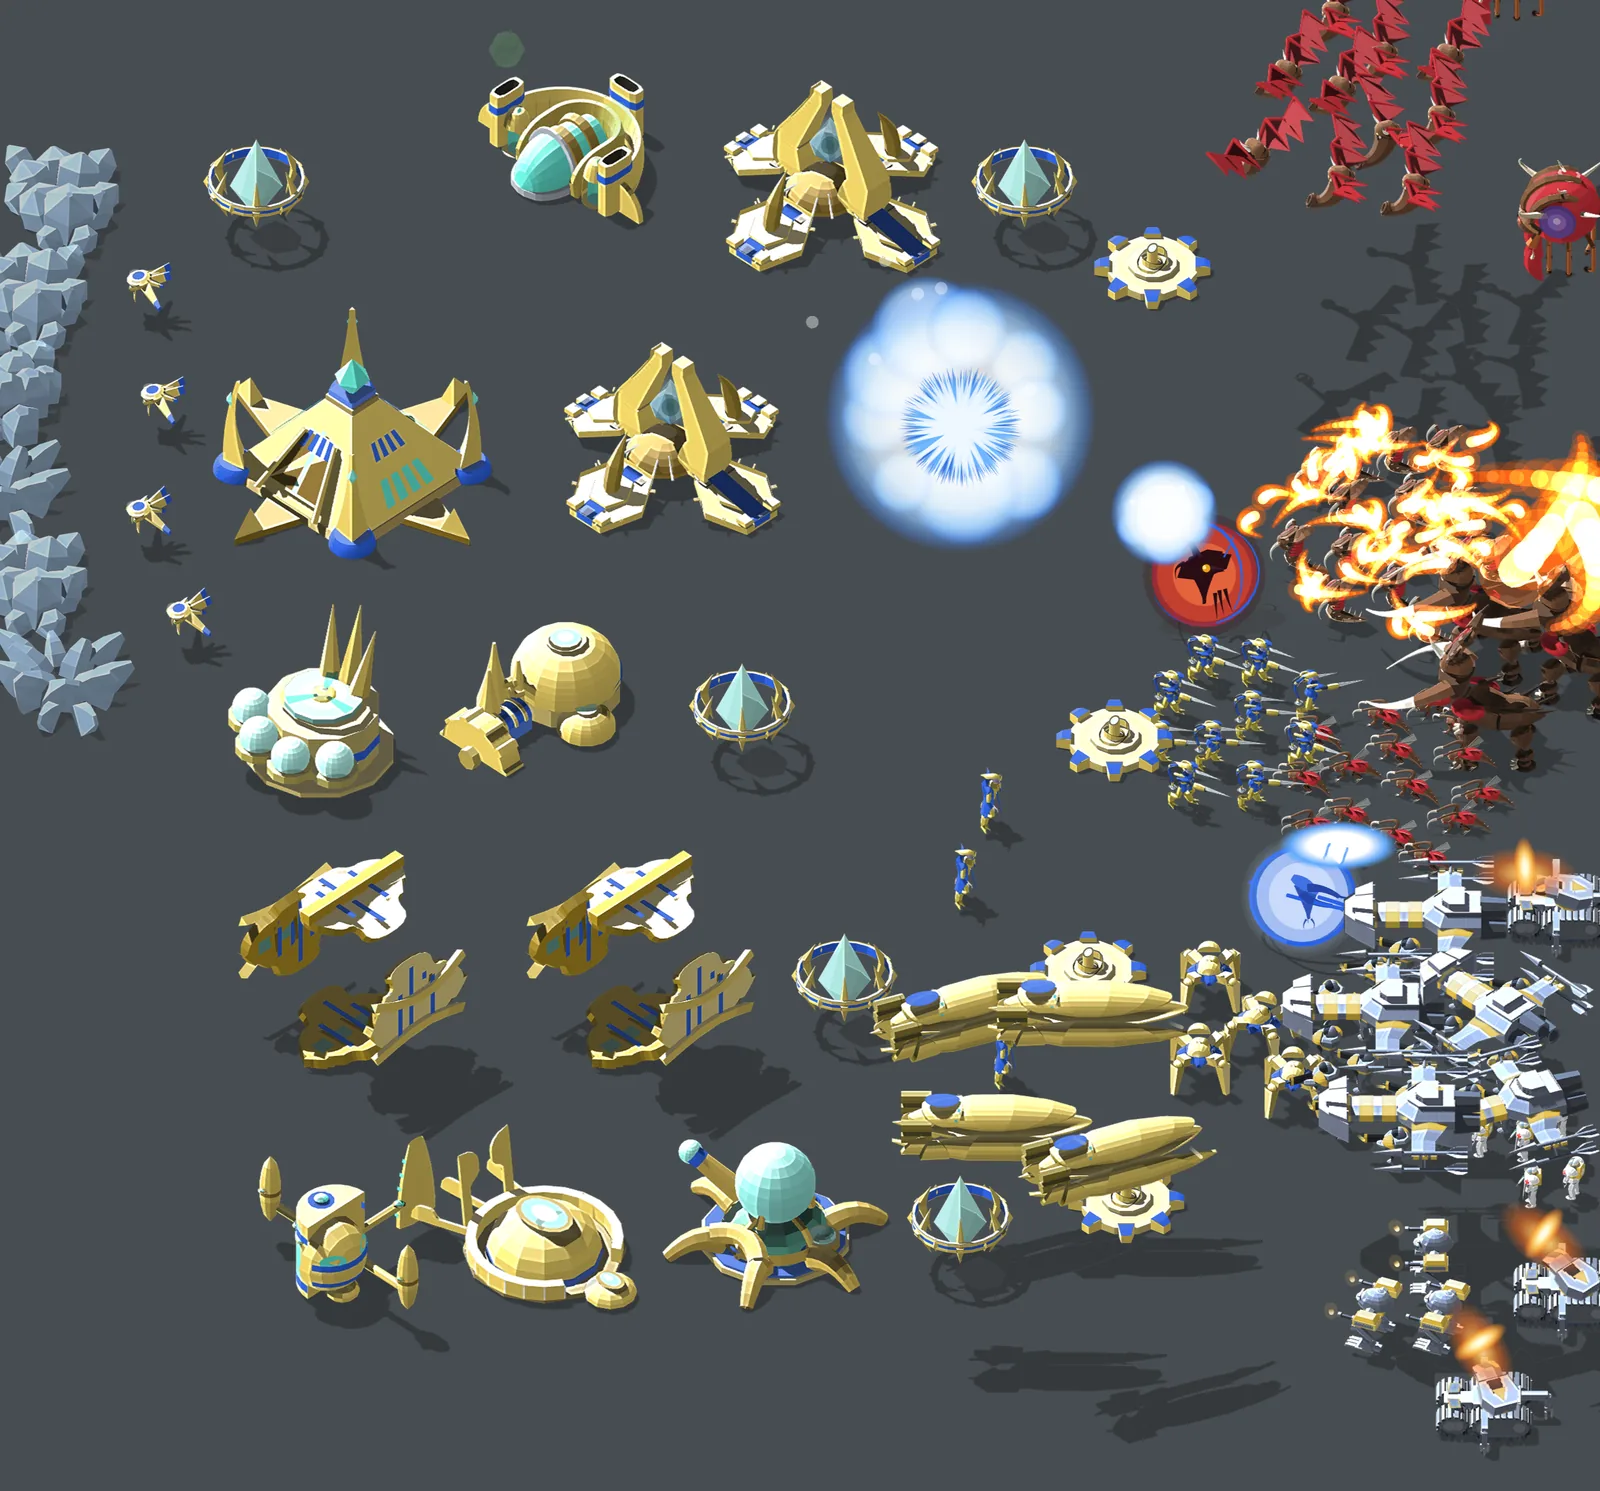
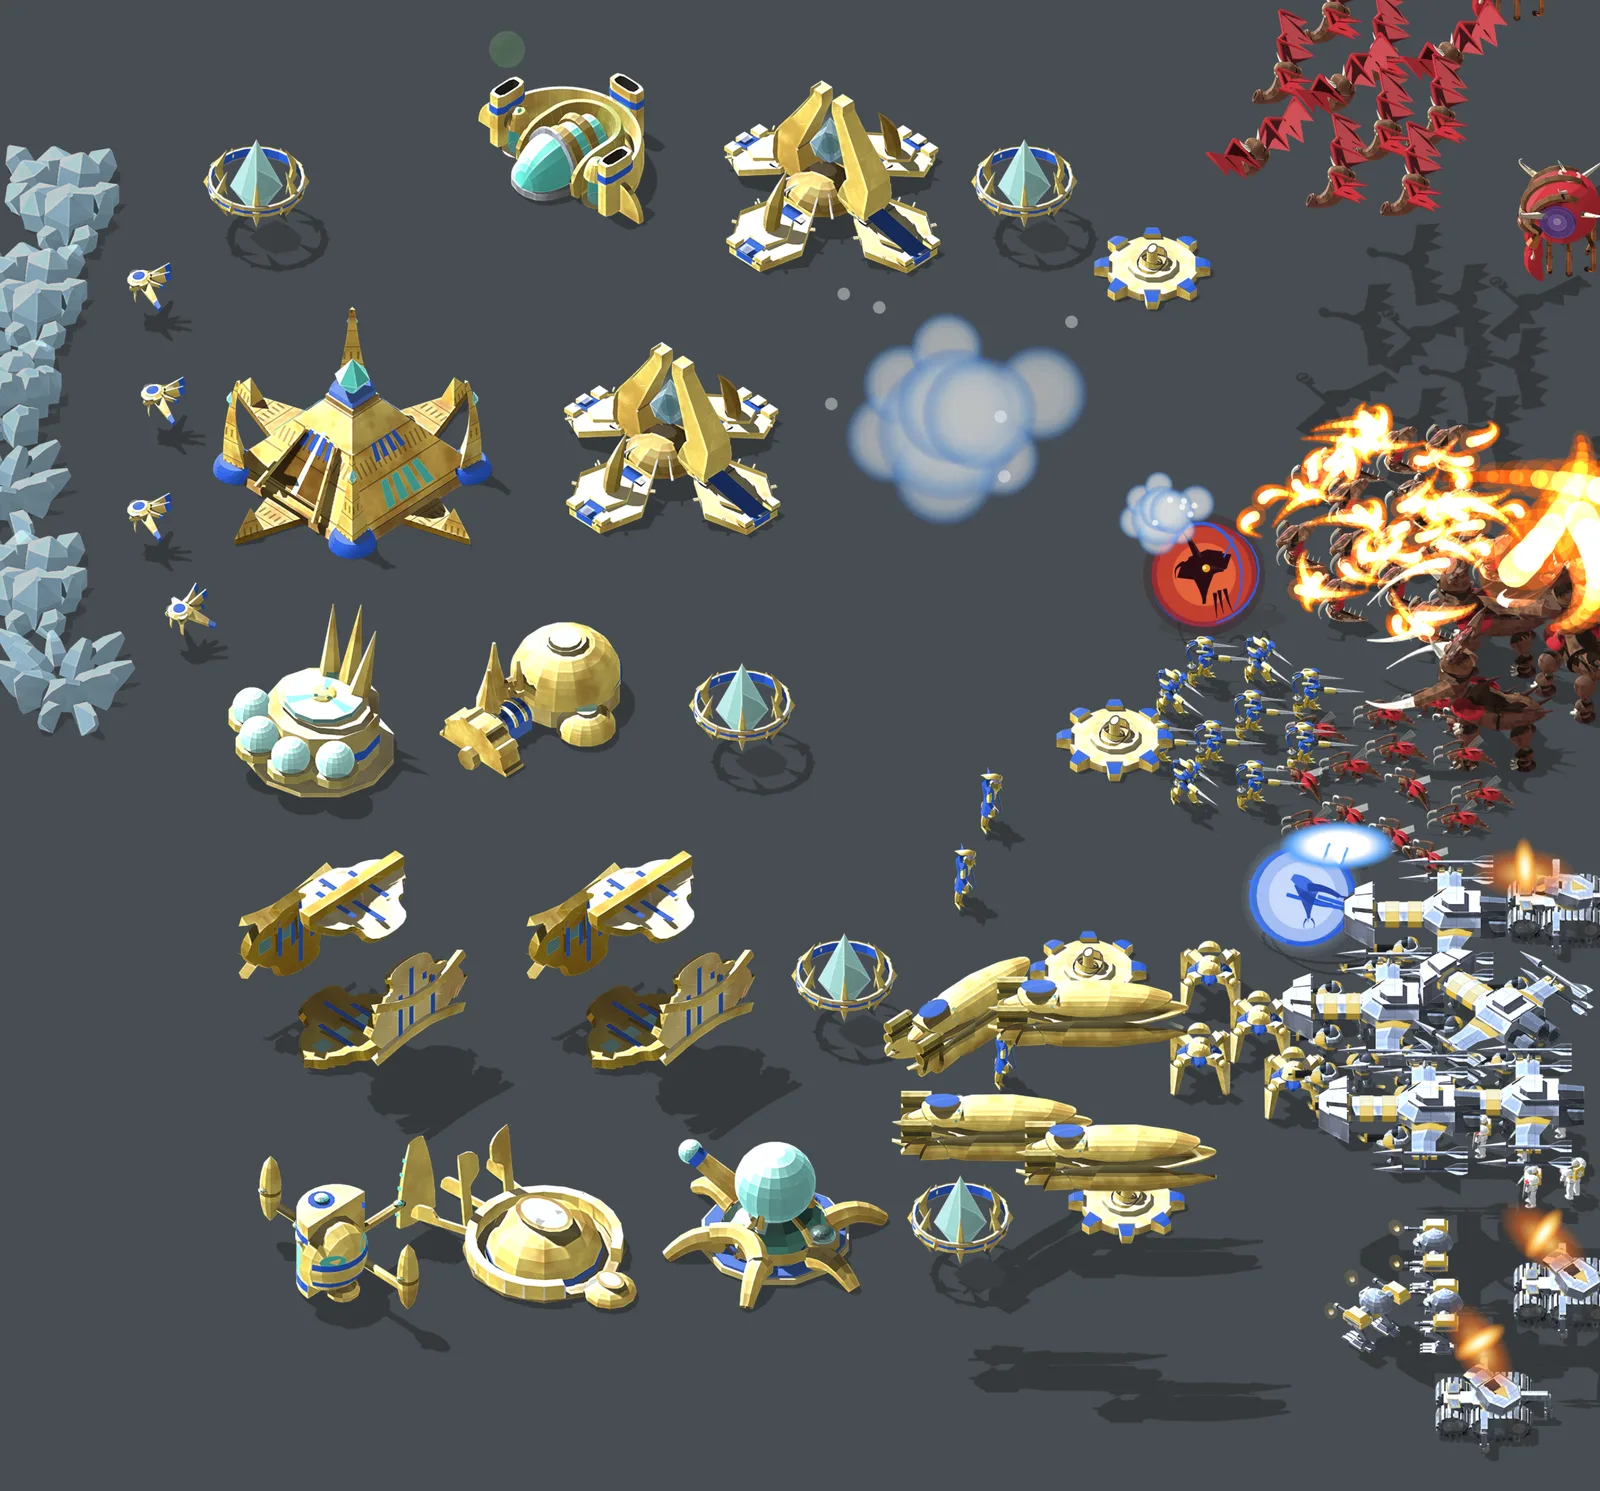
버전 5 안내: 이후 그림을 오늘 판(재질 결 아틀라스)으로 다시 찍음
Claude-Session: https://claude.ai/code/session_01Pw45cprVvGiRncJEhCPMzA

diff --git a/src/updates/UpdateV5.tsx b/src/updates/UpdateV5.tsx
@@ -1,6 +1,6 @@
 /* 버전 5 안내 — 재생기 업데이트(2026-10-31, 요청: "버전 업 안내를 글자가 아니라 페이지로 · 5버전은 재생기 업데이트 설명 · 그래픽 업그레이드 전후 비교샷 ·
  * 드래그 줌인아웃 부드러워진 거랑 폰 발열 감소도 · 모바일은 전후를 위아래로").
- * 비교 그림은 scplay scripts/showcase-shot.mjs 로 찍은 같은 장면·같은 순간이다(이전 = 10-29 그래픽 손질 앞 재생기 · 이후 = 지금). */
+ * 비교 그림은 scplay scripts/showcase-shot.mjs 로 찍은 같은 장면·같은 순간이다(이전 = 10-29 그래픽 손질 앞 재생기 · 이후 = 11-01 재질 결 아틀라스 판 · --atlas spr). */
 const IMG = `${import.meta.env.BASE_URL}updates/v5/`;
 
 /** 한 컷 전후(2026-10-31, 요청: "유닛 나열은 필요 없을 듯 · 한 컷" → "플토 본진 · 건물들과 파일런 포톤캐논 · 거기에 저그랑 테란이 쳐들어간 그림"). */
